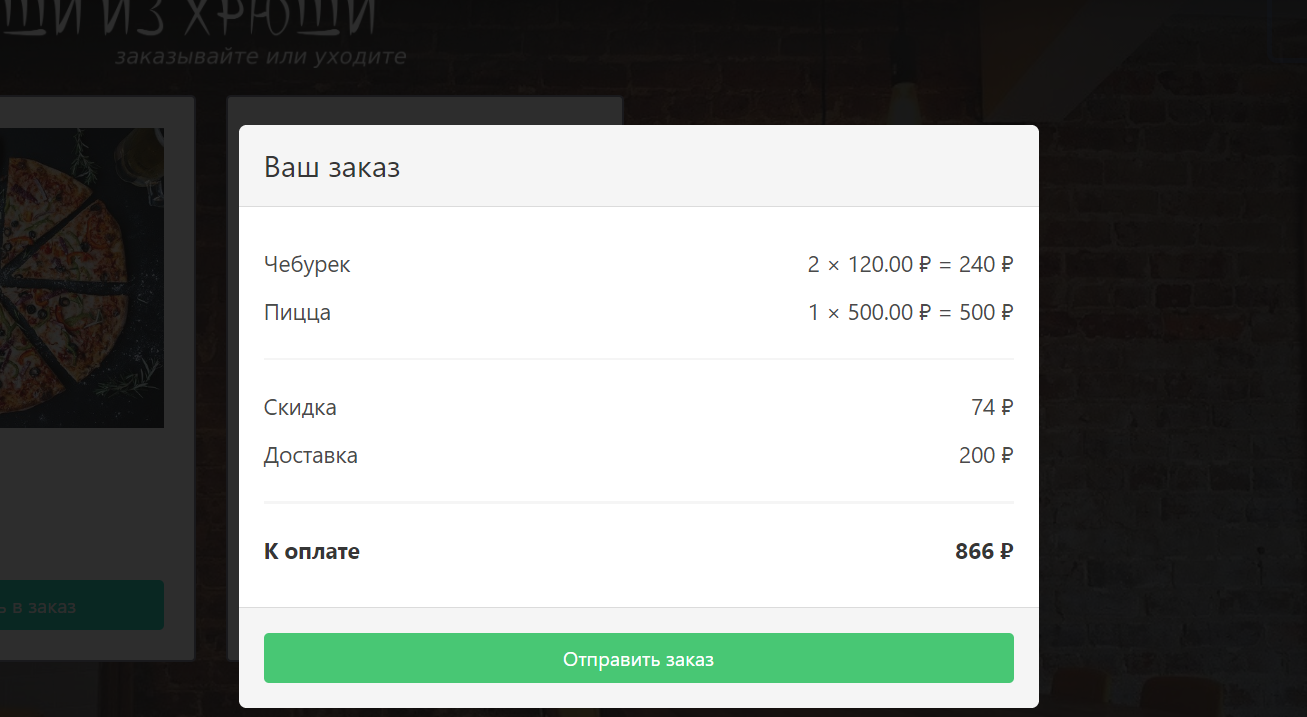
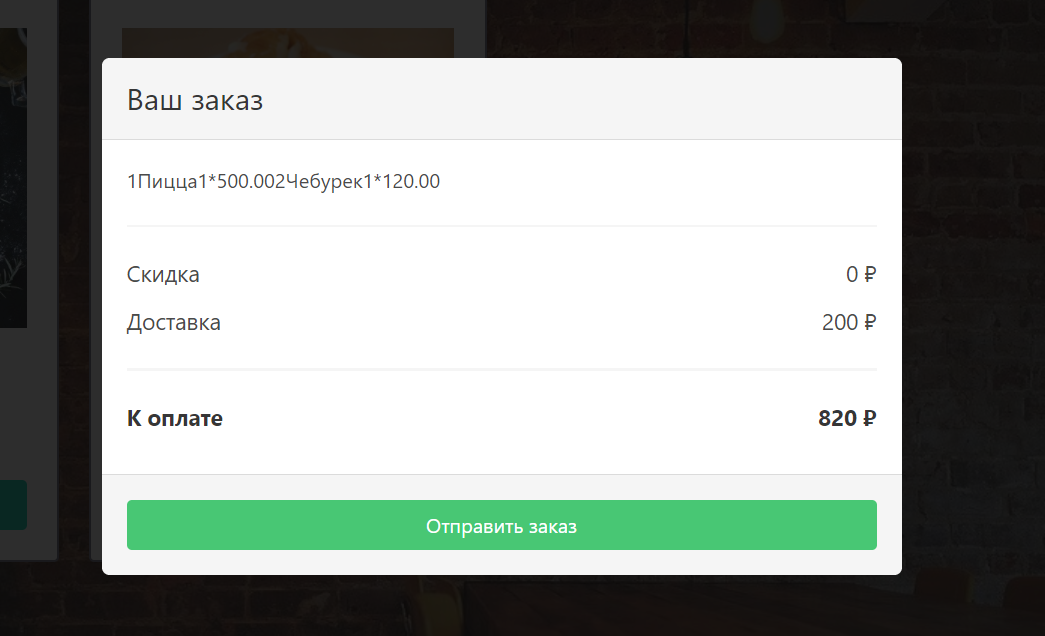
task_3 complete

diff --git a/src/script.js b/src/script.js
@@ -48,65 +48,42 @@ function changeCartValues(price) {
     }
 }
 
-function renderCartItem({count, price, title}) {
-    const cartItem = document.createElement('div');
-    const cartItemTitle = document.createElement('div');
-    const cartItemSum = document.createElement('div');
-    cartItem.className = 'cart-item';
-    cartItemTitle.innerHTML = `${title}`;
-    cartItemSum.innerHTML = `${count} × ${price} ₽ = ${price * count} ₽`;
-    cartItem.append(cartItemTitle);
-    cartItem.append(cartItemSum);
-    return cartItem;
+function renderCartItems(items) {
+    return items.reduce((acc, item) => acc + renderCartItemWrapper(item), '');
+}
+
+function renderCartItemWrapper(item) {
+    try {
+        return renderCartItem(item);
+    } catch {
+        return `${item.id}${item.title}${item.count}*${item.price}`;
+    }
 }
 
 function renderCartDiscount(discount) {
     const cartDiscount = document.createElement('div');
-    const cartDiscountTitle = document.createElement('div');
-    const cartDiscountSum = document.createElement('div');
     cartDiscount.className = 'cart-item';
-
-    cartDiscountTitle.innerHTML = 'Скидка';
-    cartDiscountSum.innerHTML = `${discount} ₽`;
-
-    cartDiscount.append(cartDiscountTitle);
-    cartDiscount.append(cartDiscountSum);
+    cartDiscount.innerHTML =`<div><strong>Скидка</strong></div><div><strong>${discount} ₽</strong></div>`;
     return cartDiscount;
 }
 
 function renderCartShipping(freeShipping, shipping) {
     const cartShipping = document.createElement('div');
-    const cartShippingTitle = document.createElement('div');
-    const cartShippingSum = document.createElement('div');
     cartShipping.className = 'cart-item';
-
-    cartShippingTitle.innerHTML = 'Доставка';
-    cartShippingSum.innerHTML = (freeShipping) ? 'бесплатно' : `${shipping} ₽`;
-
-    cartShipping.append(cartShippingTitle);
-    cartShipping.append(cartShippingSum);
+    cartShipping.innerHTML = `<div>Доставка</div><div>${(freeShipping) ? 'бесплатно' : shipping} ₽</div>`;
     return cartShipping;
 }
 
 function renderCartTotal(total) {
     const cartTotal = document.createElement('div');
-    const cartTotalTitle = document.createElement('div');
-    const cartTotalSum = document.createElement('div');
     cartTotal.className = 'cart-item';
-
-    cartTotalTitle.innerHTML = '<strong>К оплате<\strong>';
-    cartTotalSum.innerHTML = `<strong>${total} ₽<\strong>`;
-
-    cartTotal.append(cartTotalTitle);
-    cartTotal.append(cartTotalSum);
+    cartTotal.innerHTML = `<div><strong>К оплате</strong></div><div><strong>${total} ₽</strong></div>`;
     return cartTotal;
 }
 
 function renderCart() {
     const cartDetails = document.querySelector('#cart-detail');
-    cartDetails.innerHTML = '';
-
-    cart.items.forEach((item) => cartDetails.append(renderCartItem(item)));
+    cartDetails.innerHTML = renderCartItems(cart.items);
     cartDetails.append(document.createElement('hr'));
     cartDetails.append(renderCartDiscount(cart.total.discount));
     cartDetails.append(renderCartShipping(cart.total.freeShipping, cart.total.shipping));

diff --git a/task_1/solution.js b/task_1/solution.js
@@ -2,7 +2,7 @@ function addInCartMessage(title, price) {
     let productName = title;
     let productPrice = price;
 
-    // Задача №1.1. Оповещение о добавлении в корзину
+    // Задание №1.1. Оповещение о добавлении в корзину
 
     // создайте переменную message
     // присвойте переменной message значение переменной productName
@@ -13,14 +13,14 @@ function addInCartMessage(title, price) {
     // добавьте в конец переменной message текст 'теперь в корзине!'
     // выведите переменную message в консоль
 
-    // Конец решения задачи №1.1.
+    // Конец решения задания №1.1.
 
     return message;
 }
 
 function addInCartCountChange(value) {
 
-    // Задача №1.2. Увеличение количества в корзине
+    // Задание №1.2. Увеличение количества в корзине
     let oldValue = value;
 
     // создайте переменную newValue
@@ -28,7 +28,7 @@ function addInCartCountChange(value) {
     // увеличьте значение newValue на 1
     // замените все переменные, которым значения присваиваются единожды, на константы
 
-    // Конец решения задачи №1.2.
+    // Конец решения задания №1.2.
 
     return newValue;
 }
@@ -37,13 +37,13 @@ function addInCartSumChange(sum, delta) {
     let oldSum = sum;
     let difference = delta;
 
-    // Задача №1.3. Увеличение суммы в корзине
+    // Задание №1.3. Увеличение суммы в корзине
 
     // создайте переменную newSum и присвойте ей сумму oldSum и difference
     // создайте переменную newSumText и присвойте ей результат склеивания переменной newSum и текста ' ₽'
     // замените склеивание, используемое в newSum Text на шаблонную строку
 
-    // Конец решения задачи №1.3.
+    // Конец решения задания №1.3.
 
     return newSumText;
 }

diff --git a/task_2/solution.js b/task_2/solution.js
@@ -1,13 +1,9 @@
-// - Булев тип
-// - и, или, не (с простой точки зрения)
-// - условия
-
 function calcShipping(sum, min, shipping) {
     let productSum = sum; // сумма в корзине
     let freeShippingMinSum = min; // минимальная цена для бесплатной доставки
     let shippingPrice = shipping; // стоимость доставки
 
-    // Задача №2.1. Рассчитать доставку
+    // Задание №2.1. Рассчитать доставку
 
     // создайте переменную shippingPrice
 
@@ -20,7 +16,7 @@ function calcShipping(sum, min, shipping) {
     // если productsSum > или равен freeShippingMinSum,
     // то shippingPrice присвоить значение 0
 
-    // Конец решения задачи №2.1.
+    // Конец решения задания №2.1.
 
     return shippingSum;
 }
@@ -30,7 +26,7 @@ function calcDiscount(sum, min, discount) {
     let discountMinSum = min; // минимальная цена для скидки
     let discountPart = discount; // величина скидки в процентах
 
-    // Задача №2.2. Рассчитать скидку
+    // Задание №2.2. Рассчитать скидку
 
     // создайте переменную discountPrice
 
@@ -40,7 +36,7 @@ function calcDiscount(sum, min, discount) {
 
     // замените if {...} else {...} на тернарный оператор
 
-    // Конец решения задачи №2.2.
+    // Конец решения задания №2.2.
 
     return discountSum;
 }

diff --git a/lib/task_2.js b/lib/task_2.js
@@ -1,4 +1,4 @@
-describe('Задача №2.1. Рассчитать доставку', () => {
+describe('Задание №2.1. Рассчитать доставку', () => {
     it('Тест 2.1.1. Тест переменной shippingSum', () => {
         const funcToThrow = () => calcShipping(0, 0);
         expect(funcToThrow).not.toThrowError(ReferenceError, 'shippingSum is not defined');
@@ -25,7 +25,7 @@ describe('Задача №2.1. Рассчитать доставку', () => {
     });
 })
 
-describe('Задача №2.2. Рассчитать скидку', () => {
+describe('Задание №2.2. Рассчитать скидку', () => {
     it('Тест 2.2.1. Тест переменной discountSum', () => {
         const funcToThrow = () => calcDiscount(0, 10, 0);
         expect(funcToThrow).not.toThrowError(ReferenceError, 'discountSum is not defined');
@@ -57,7 +57,7 @@ describe('Задача №2.2. Рассчитать скидку', () => {
     });
 })
 
-describe('Задача №2.3. Рассчитать скидки и доставку в корзине', () => {
+describe('Задание №2.3. Рассчитать скидки и доставку в корзине', () => {
     it('Тест 2.3.1. Тест переменной totalSum', () => {
         const funcToThrow = () => calcInvoice({
             sum: 0,

diff --git a/lib/task_3.js b/lib/task_3.js
@@ -1,0 +1,16 @@
+describe('Задание №3.1. Формирование строки корзины', () => {
+    it('Тест 3.1.1. Тест переменной itemHTML', () => {
+        const funcToThrow = () => renderCartItem({id: 1, title: 'Пицца', count: 5, price: '300.00'});
+        expect(funcToThrow).not.toThrowError(ReferenceError, 'itemHTML is not defined');
+    });
+    it('Тест 3.1.2. Формирование строки 1', () => {
+        const expected = '<div class="cart-item"><div>Пицца</div><div>5 × 500.00 ₽ = 2500 ₽</div></div>';
+        const received = renderCartItem({title: 'Пицца', count: 5, price: '300.00'});
+        expect(received).toBe(expected);
+    });
+    it('Тест 3.1.3. Формирование строки 2', () => {
+        const expected = '<div class="cart-item"><div>Эчпочмак</div><div>2 × 55.00 ₽ = 110 ₽</div></div>';
+        const received = renderCartItem({title: 'Эчпочмак', count: 2, price: '55.00'});
+        expect(received).toBe(expected);
+    });
+})

diff --git a/task_3/solution.js b/task_3/solution.js
@@ -1,5 +1,23 @@
-// - объекты (литеральная форма, без классов)
-// - массивы
-// - JSON/XML
+function renderCartItem(item) {
+
+    // Задание №3.1. Формирование строки корзины
+
+    // item - объект вида {id: id, title: title, count: count, price: price}
+    // например, {id: 1, title: 'Пицца', count: 5, price: '500.00'}
+
+    // сформируйте строку itemCountText вида:
+    // ${item.count} × ${item.price} ₽ = ${item.price * item.count} ₽
+    // например,
+    // 5 × 500.00 ₽ = 2500 ₽</div>
+
+    // сформируйте строку itemHTML вида:
+    // <div class="cart-item"><div>${item.title}</div><div>${itemCountText}</div></div>
+    // например,
+    // <div class="cart-item"><div>Пицца</div><div>5 × 500.00 ₽ = 2500 ₽</div></div>
+
+    // Конец решения задания №3.1.
+
+    return itemHTML;
+}
 
 

diff --git a/task_1/readme.md b/task_1/readme.md
@@ -3,7 +3,7 @@
 
 Автотесты запускаются в файле `task_1/test-runner.html`
 
-### Задача №1.1. Оповещение о добавлении в корзину
+### Задание №1.1. Оповещение о добавлении в корзину
 
 #### Задача
 При добавлении товара в корзину, вместо всплывающего сообщения
@@ -18,8 +18,8 @@
 
 #### Ход решения
 Пишите весь код решения между строками 
-"Задача №1.1." и 
-"Конец решения задачи №1.1."
+"Задание №1.1." и 
+"Конец решения задания №1.1."
 1. Cоздайте переменную message
 2. Присвойте переменной message значение переменной productName
 3. Добавьте в конец переменной message пробел
@@ -29,7 +29,7 @@
 7. Добавьте в конец переменной message текст 'теперь в корзине!'
 8. Выведите переменную message в консоль
 
-### Задача №1.2. Увеличение количества в корзине
+### Задание №1.2. Увеличение количества в корзине
 
 #### Задача
 При добавлении товара в корзину, не увеличивается количество товаров в корзине:
@@ -41,15 +41,15 @@
 
 #### Ход решения
 Пишите весь код решения между строками 
-"Задача №1.2." и 
-"Конец решения задачи №1.2."
+"Задание №1.2." и 
+"Конец решения задания №1.2."
 1. Создайте переменную newValue
 2. Присвойте ей значение oldValue
 4. Увеличьте значение newValue на 1
 5. Замените все переменные, которым значения присваиваются единожды, на 
 [константы](https://developer.mozilla.org/ru/docs/Web/JavaScript/Reference/Statements/const)
 
-### Задача №1.3. Увеличение суммы в корзине
+### Задание №1.3. Увеличение суммы в корзине
 
 #### Задача
 При добавлении товара в корзину, не увеличивается стоимость товара в корзине:
@@ -62,8 +62,8 @@
 
 #### Ход решения
 Пишите весь код решения между строками
-"Задача №1.3." и 
-"Конец решения задачи №1.3."
+"Задание №1.3." и 
+"Конец решения задания №1.3."
 1. Создайте переменную newSum и присвойте ей сумму oldSum и difference
 2. Создайте переменную newSumText и присвойте ей результат склеивания переменной newSum и текста ' ₽'
 3. Замените склеивание, используемое в newSum Text на шаблонную строку ("косые кавычки")

diff --git a/task_2/readme.md b/task_2/readme.md
@@ -3,8 +3,7 @@
 
 Автотесты запускаются в файле `task_2/test-runner.html`
 
-### Задача №2.1. Рассчитать доставку
-
+### Задание №2.1. Рассчитать доставку
 #### Задача
 При клике на корзину открывается информация о заказанных позициях, 
 стоимости доставки и предоставленных скидках.
@@ -19,8 +18,8 @@
 
 #### Ход решения
 Пишите весь код решения между строками 
-"Задача №2.1." и 
-"Конец решения задачи №2.1."
+"Задание №2.1." и 
+"Конец решения задания №2.1."
 1. создайте переменную shippingPrice
 2. если productsSum равно 0, то shippingPrice присвоить значение 0;
 3. если productsSum больше нуля, но меньше freeShippingMinSum, 
@@ -28,8 +27,7 @@
 4. если productsSum > или равен freeShippingMinSum, 
 то shippingPrice присвоить значение 0.
 
-### Задача №2.2. Увеличение количества в корзине
-
+### Задание №2.2. Увеличение количества в корзине
 #### Задача
 При клике на корзину открывается информация о заказанных позициях, 
 стоимости доставки и предоставленных скидках.
@@ -42,8 +40,8 @@
 
 #### Ход решения
 Пишите весь код решения между строками 
-"Задача №2.2." и 
-"Конец решения задачи №2.2."
+"Задание №2.2." и 
+"Конец решения задания №2.2."
 1. создайте переменную discountPrice
 2. если productsSum больше или равно discountMinSum,
 то присвойте discountPrice значение discountPart процентов от productsSum,
@@ -51,8 +49,7 @@
 3. замените if {...} else {...} на 
 [тернарный оператор](https://developer.mozilla.org/ru/docs/Web/JavaScript/Reference/Operators/Conditional_Operator)
     
-### Задача №2.3. Увеличение суммы в корзине
-
+### Задание №2.3. Увеличение суммы в корзине
 #### Задача
 При клике на корзину открывается информация о заказанных позициях, 
 стоимости доставки и предоставленных скидках.
@@ -64,8 +61,8 @@
 
 #### Ход решения
 Пишите весь код решения между строками
-"Задача №2.3." и 
-"Конец решения задачи №2.3."
+"Задание №2.3." и 
+"Конец решения задания №2.3."
 1. Создайте переменную totalSum
 2. Присвойте totalSum значение productsSum
 3. Уменьшите totalSum на discountSum

diff --git a/task_3/readme.md b/task_3/readme.md
@@ -1,0 +1,27 @@
+## Домашнее задание к занятию "Сложные структуры данных"
+Пишите код решения в файле `task_3/solutions.js`
+
+Автотесты запускаются в файле `task_3/test-runner.html`
+
+### Задание №3.1. Рассчитать доставку
+#### Задача
+Сейчас в корзине выводится список товаров в корзине не самым лучшим образом.
+Требуется изменить это:
+![](../readme-img/task_3/cart.png)
+
+#### Ход решения
+Пишите весь код решения между строками 
+"Задание №3.1." и 
+"Конец решения задания №3.1."
+1. Сформируйте строку itemCountText вида 
+`${item.count} × ${item.price} ₽ = ${item.price * item.count} ₽`
+на основе объекта item
+2. Сформируйте строку itemHTML вида
+`<div class="cart-item"><div>${item.title}</div><div>${itemCountText}</div></div>`
+
+### Как отправить решения на проверку
+1. Проверьте правильность решения с помощью автотестов task_3/test-runner.html
+![](../readme-img/task_3/test-success.png)
+2. Если обнаружены какие-то ошибки - исправьте их и проверьте решение снова
+3. Отправьте изменения в удаленный репозиторий
+4. Отправьте преподавателю на проверку ссылку на github и ссылку на github-pages 
